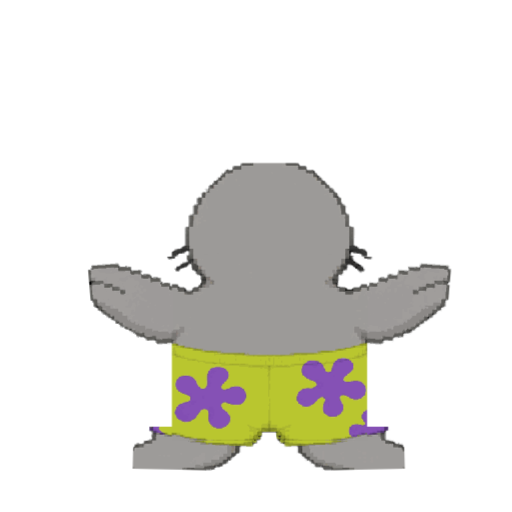
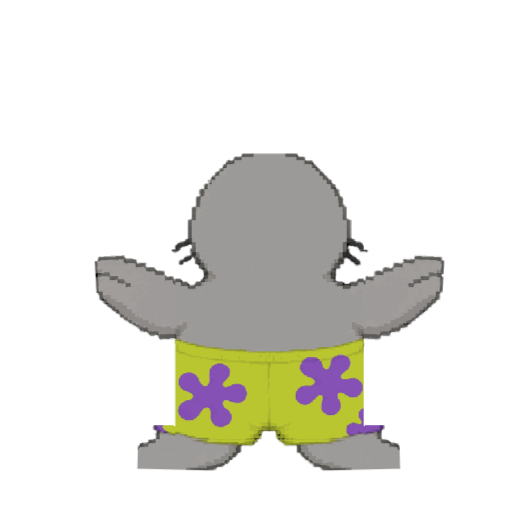
트월킹: 상하 성분이 지워지던 문제 수정 + 리듬을 발주 규격에 맞춤, 원화 발주서 작성
원격 push 는 하지 않았다(요청대로 로컬 커밋만).

측정으로 확인한 결함 두 가지

1. 골반 8자의 **위아래 성분이 100% 상쇄되고 있었다.**
   bake-placeholder-clips.js 는 접지 프레임의 발바닥을 바닥선(y=470)에 맞추려고
   root.y 를 도로 뺀다. 트월킹은 8프레임이 전부 접지라, clip-poses.js 가 준 상하
   움직임이 구울 때 통째로 사라졌다. 좌우 미끄러짐만 남아 있었다.
   → 낮아짐을 sy(몸 압축)로 준다. 변형 기준점이 발밑이라 발을 붙인 채 몸만 눌리고
     바닥선 보정에 지워지지 않는다. 프레임 높이가 306~320px 로 실제로 변하는 것을 확인.

2. **5조각 리그로는 이 동작을 만들 수 없다.**
   torso 조각이 머리와 반바지를 한 덩어리로 가지고 있어서, 골반을 옮기면 머리가 같이
   가고 몸통을 돌리면 머리만 크게 흔들린다. "골반이 먼저, 머리는 조용히" 가 구조적으로
   불가능하다. 새 원화가 유일한 길이다.

한 것
- 8포즈 리듬을 발주 규격대로: [80,80,160,80,80,80,160,80] = 800ms (40ms 격자 유지).
  중앙 준비 / 왼쪽 압축 / 왼쪽 팝 / 반동 / 중앙 낮게 / 오른쪽 압축 / 오른쪽 팝 / 반동.
- 팔을 몸 가까이로 줄였다(T자로 벌리지 않게 계수 0.5 → 0.35).
- docs/art-orders.md 트월킹 절을 다시 썼다: 8프레임 자세표·유지시간, 수치 기준
  (골반 변위 키의 8~10%, 머리는 그 1/4 이하), 생성 프롬프트 전문, 정확한 투입 경로,
  8항목 검수표, 그리고 "새 원화를 넣은 뒤에는 굽기 도구를 이 클립에 쓰지 말 것" 경고.

하지 않은 것 — 분명히 해 둔다
- **새 그림은 한 장도 그리지 않았다.** 이 환경에는 이미지 생성 도구가 없다.
  placeholder:true 를 그대로 두었다. 임시 표시만 지우는 짓은 하지 않았다.
- 첨부된 개념 시트는 쓰지 않았다. 측정 결과 RGB 모드로 **알파 채널이 아예 없고**,
  배경이 242~254 회색 체크무늬가 그림에 칠해져 있으며, 셀 크기가 443.5px 로
  512 격자가 아니다. 포즈·리듬 참고로만 발주서에 반영했다.
- **눈으로 확인한 결과: 아직 궁디댄스로 읽히지 않는다.** 압축은 살아났지만 통짜
  좌우 미끄러짐 인상이 남아 있다. 자동 검사 통과와 귀여움은 다른 문제다.

검증: selftest 977 + overlay-startup 4조건, build-clip-art 규격 통과,
anim timeline 연속성 통과, app-smoke 실제 앱에서 캐릭터 표시 확인.

Claude-Session: https://claude.ai/code/session_01UGKUMqyrf4eS8x4wjHjfSy

diff --git a/src/renderer/shared/clip-art.js b/src/renderer/shared/clip-art.js
@@ -15,7 +15,7 @@
   const RW = (root.RW = root.RW || {});
   const here = (typeof document !== 'undefined' && document.currentScript && document.currentScript.src) || '';
   const BASE = here ? here.replace(/shared\/clip-art\.js.*$/, 'assets/clips/') : 'assets/clips/';
-  const DATA = {"char_seal":{"canvas":{"w":512,"h":512},"anchor":{"x":256,"y":470},"displayScale":0.7059,"clips":{"idle":{"id":"idle","loop":true,"loopFrom":0,"cancelFrom":0,"frames":[{"image":"char_seal/idle/frame-00.png","dur":700,"bbox":[82,152,430,470]},{"image":"char_seal/idle/frame-01.png","dur":500,"bbox":[84,142,428,470]},{"image":"char_seal/idle/frame-02.png","dur":500,"bbox":[86,136,426,470]},{"image":"char_seal/idle/frame-03.png","dur":700,"bbox":[78,161,434,470]}],"placeholder":true},"g_cheer":{"id":"g_cheer","loop":false,"loopFrom":0,"cancelFrom":6,"frames":[{"image":"char_seal/idle/frame-00.png","dur":100,"bbox":[82,152,430,470]},{"image":"char_seal/g_cheer/frame-01.png","dur":220,"bbox":[58,217,454,471]},{"image":"char_seal/g_cheer/frame-02.png","dur":120,"bbox":[102,95,411,451]},{"image":"char_seal/g_cheer/frame-03.png","dur":260,"bbox":[116,51,396,429]},{"image":"char_seal/g_cheer/frame-04.png","dur":120,"bbox":[93,116,420,467]},{"image":"char_seal/g_cheer/frame-05.png","dur":200,"bbox":[63,207,450,470]},{"image":"char_seal/g_cheer/frame-02.png","dur":120,"bbox":[102,95,411,451]},{"image":"char_seal/g_cheer/frame-03.png","dur":260,"bbox":[116,51,396,429]},{"image":"char_seal/g_cheer/frame-04.png","dur":120,"bbox":[93,116,420,467]},{"image":"char_seal/g_cheer/frame-05.png","dur":200,"bbox":[63,207,450,470]},{"image":"char_seal/g_cheer/frame-02.png","dur":120,"bbox":[102,95,411,451]},{"image":"char_seal/g_cheer/frame-03.png","dur":260,"bbox":[116,51,396,429]},{"image":"char_seal/g_cheer/frame-04.png","dur":120,"bbox":[93,116,420,467]},{"image":"char_seal/g_cheer/frame-05.png","dur":200,"bbox":[63,207,450,470]},{"image":"char_seal/idle/frame-00.png","dur":280,"bbox":[82,152,430,470]}],"fx":"sparkle","placeholder":true},"g_droop":{"id":"g_droop","loop":false,"loopFrom":0,"cancelFrom":4,"frames":[{"image":"char_seal/idle/frame-00.png","dur":160,"bbox":[82,152,430,470]},{"image":"char_seal/g_droop/frame-01.png","dur":240,"bbox":[82,134,420,471]},{"image":"char_seal/g_droop/frame-02.png","dur":300,"bbox":[83,201,466,471]},{"image":"char_seal/g_droop/frame-03.png","dur":260,"bbox":[70,204,455,470]},{"image":"char_seal/g_droop/frame-04.png","dur":160,"bbox":[80,198,463,470]},{"image":"char_seal/g_droop/frame-05.png","dur":160,"bbox":[91,189,469,470]},{"image":"char_seal/g_droop/frame-06.png","dur":160,"bbox":[100,188,477,471]},{"image":"char_seal/g_droop/frame-07.png","dur":260,"bbox":[111,184,483,470]},{"image":"char_seal/g_droop/frame-08.png","dur":220,"bbox":[94,173,462,471]},{"image":"char_seal/g_droop/frame-09.png","dur":260,"bbox":[84,164,444,470]},{"image":"char_seal/idle/frame-00.png","dur":300,"bbox":[82,152,430,470]}],"fx":"droop","placeholder":true},"g_heart":{"id":"g_heart","loop":false,"loopFrom":0,"cancelFrom":4,"frames":[{"image":"char_seal/idle/frame-00.png","dur":120,"bbox":[82,152,430,470]},{"image":"char_seal/g_heart/frame-01.png","dur":200,"bbox":[70,185,442,471]},{"image":"char_seal/g_heart/frame-02.png","dur":200,"bbox":[92,125,421,459]},{"image":"char_seal/g_heart/frame-03.png","dur":280,"bbox":[78,110,396,465]},{"image":"char_seal/g_heart/frame-04.png","dur":120,"bbox":[86,140,427,465]},{"image":"char_seal/g_heart/frame-05.png","dur":220,"bbox":[79,170,448,470]},{"image":"char_seal/idle/frame-00.png","dur":320,"bbox":[82,152,430,470]}],"fx":"heart","placeholder":true},"turn_back":{"id":"turn_back","loop":false,"loopFrom":0,"cancelFrom":99,"frames":[{"image":"char_seal/idle/frame-00.png","dur":100,"bbox":[82,152,430,470]},{"image":"char_seal/turn_back/frame-01.png","dur":100,"bbox":[183,145,329,470]},{"image":"char_seal/turn_back/frame-02.png","dur":100,"bbox":[82,152,430,470]}],"placeholder":true},"turn_front":{"id":"turn_front","loop":false,"loopFrom":0,"cancelFrom":99,"frames":[{"image":"char_seal/turn_back/frame-02.png","dur":100,"bbox":[82,152,430,470]},{"image":"char_seal/turn_front/frame-01.png","dur":100,"bbox":[183,145,329,470]},{"image":"char_seal/idle/frame-00.png","dur":100,"bbox":[82,152,430,470]}],"placeholder":true},"twerk_loop":{"id":"twerk_loop","loop":true,"loopFrom":0,"cancelFrom":0,"frames":[{"image":"char_seal/twerk_loop/frame-00.png","dur":120,"bbox":[68,154,418,471],"ground":["L","R"]},{"image":"char_seal/twerk_loop/frame-01.png","dur":120,"bbox":[62,151,419,470],"ground":["L","R"]},{"image":"char_seal/twerk_loop/frame-02.png","dur":120,"bbox":[63,159,425,470],"ground":["L","R"]},{"image":"char_seal/twerk_loop/frame-03.png","dur":120,"bbox":[81,152,436,471],"ground":["L","R"]},{"image":"char_seal/twerk_loop/frame-04.png","dur":120,"bbox":[95,154,444,471],"ground":["L","R"]},{"image":"char_seal/twerk_loop/frame-05.png","dur":120,"bbox":[93,153,452,470],"ground":["L","R"]},{"image":"char_seal/twerk_loop/frame-06.png","dur":120,"bbox":[87,162,451,470],"ground":["L","R"]},{"image":"char_seal/twerk_loop/frame-07.png","dur":120,"bbox":[75,152,432,470],"ground":["L","R"]}],"placeholder":true},"walk":{"id":"walk","loop":true,"loopFrom":0,"cancelFrom":0,"frames":[{"image":"char_seal/walk/frame-00.png","dur":160,"bbox":[77,143,435,470],"ground":["L"]},{"image":"char_seal/walk/frame-01.png","dur":160,"bbox":[81,125,421,471],"ground":["L","R"]},{"image":"char_seal/walk/frame-02.png","dur":160,"bbox":[80,156,432,471],"ground":["L"]},{"image":"char_seal/walk/frame-03.png","dur":160,"bbox":[81,154,432,471],"ground":["L"]},{"image":"char_seal/walk/frame-04.png","dur":160,"bbox":[77,160,435,471],"ground":["R"]},{"image":"char_seal/walk/frame-05.png","dur":160,"bbox":[91,138,432,469],"ground":["L","R"]},{"image":"char_seal/walk/frame-06.png","dur":160,"bbox":[80,150,433,470],"ground":["R"]},{"image":"char_seal/walk/frame-07.png","dur":160,"bbox":[81,141,432,471],"ground":["R"]}],"stepAdvance":26,"placeholder":true}}}};
+  const DATA = {"char_seal":{"canvas":{"w":512,"h":512},"anchor":{"x":256,"y":470},"displayScale":0.7059,"clips":{"idle":{"id":"idle","loop":true,"loopFrom":0,"cancelFrom":0,"frames":[{"image":"char_seal/idle/frame-00.png","dur":700,"bbox":[82,152,430,470]},{"image":"char_seal/idle/frame-01.png","dur":500,"bbox":[84,142,428,470]},{"image":"char_seal/idle/frame-02.png","dur":500,"bbox":[86,136,426,470]},{"image":"char_seal/idle/frame-03.png","dur":700,"bbox":[78,161,434,470]}],"placeholder":true},"g_cheer":{"id":"g_cheer","loop":false,"loopFrom":0,"cancelFrom":6,"frames":[{"image":"char_seal/idle/frame-00.png","dur":100,"bbox":[82,152,430,470]},{"image":"char_seal/g_cheer/frame-01.png","dur":220,"bbox":[58,217,454,471]},{"image":"char_seal/g_cheer/frame-02.png","dur":120,"bbox":[102,95,411,451]},{"image":"char_seal/g_cheer/frame-03.png","dur":260,"bbox":[116,51,396,429]},{"image":"char_seal/g_cheer/frame-04.png","dur":120,"bbox":[93,116,420,467]},{"image":"char_seal/g_cheer/frame-05.png","dur":200,"bbox":[63,207,450,470]},{"image":"char_seal/g_cheer/frame-02.png","dur":120,"bbox":[102,95,411,451]},{"image":"char_seal/g_cheer/frame-03.png","dur":260,"bbox":[116,51,396,429]},{"image":"char_seal/g_cheer/frame-04.png","dur":120,"bbox":[93,116,420,467]},{"image":"char_seal/g_cheer/frame-05.png","dur":200,"bbox":[63,207,450,470]},{"image":"char_seal/g_cheer/frame-02.png","dur":120,"bbox":[102,95,411,451]},{"image":"char_seal/g_cheer/frame-03.png","dur":260,"bbox":[116,51,396,429]},{"image":"char_seal/g_cheer/frame-04.png","dur":120,"bbox":[93,116,420,467]},{"image":"char_seal/g_cheer/frame-05.png","dur":200,"bbox":[63,207,450,470]},{"image":"char_seal/idle/frame-00.png","dur":280,"bbox":[82,152,430,470]}],"fx":"sparkle","placeholder":true},"g_droop":{"id":"g_droop","loop":false,"loopFrom":0,"cancelFrom":4,"frames":[{"image":"char_seal/idle/frame-00.png","dur":160,"bbox":[82,152,430,470]},{"image":"char_seal/g_droop/frame-01.png","dur":240,"bbox":[82,134,420,471]},{"image":"char_seal/g_droop/frame-02.png","dur":300,"bbox":[83,201,466,471]},{"image":"char_seal/g_droop/frame-03.png","dur":260,"bbox":[70,204,455,470]},{"image":"char_seal/g_droop/frame-04.png","dur":160,"bbox":[80,198,463,470]},{"image":"char_seal/g_droop/frame-05.png","dur":160,"bbox":[91,189,469,470]},{"image":"char_seal/g_droop/frame-06.png","dur":160,"bbox":[100,188,477,471]},{"image":"char_seal/g_droop/frame-07.png","dur":260,"bbox":[111,184,483,470]},{"image":"char_seal/g_droop/frame-08.png","dur":220,"bbox":[94,173,462,471]},{"image":"char_seal/g_droop/frame-09.png","dur":260,"bbox":[84,164,444,470]},{"image":"char_seal/idle/frame-00.png","dur":300,"bbox":[82,152,430,470]}],"fx":"droop","placeholder":true},"g_heart":{"id":"g_heart","loop":false,"loopFrom":0,"cancelFrom":4,"frames":[{"image":"char_seal/idle/frame-00.png","dur":120,"bbox":[82,152,430,470]},{"image":"char_seal/g_heart/frame-01.png","dur":200,"bbox":[70,185,442,471]},{"image":"char_seal/g_heart/frame-02.png","dur":200,"bbox":[92,125,421,459]},{"image":"char_seal/g_heart/frame-03.png","dur":280,"bbox":[78,110,396,465]},{"image":"char_seal/g_heart/frame-04.png","dur":120,"bbox":[86,140,427,465]},{"image":"char_seal/g_heart/frame-05.png","dur":220,"bbox":[79,170,448,470]},{"image":"char_seal/idle/frame-00.png","dur":320,"bbox":[82,152,430,470]}],"fx":"heart","placeholder":true},"turn_back":{"id":"turn_back","loop":false,"loopFrom":0,"cancelFrom":99,"frames":[{"image":"char_seal/idle/frame-00.png","dur":100,"bbox":[82,152,430,470]},{"image":"char_seal/turn_back/frame-01.png","dur":100,"bbox":[183,145,329,470]},{"image":"char_seal/turn_back/frame-02.png","dur":100,"bbox":[82,152,430,470]}],"placeholder":true},"turn_front":{"id":"turn_front","loop":false,"loopFrom":0,"cancelFrom":99,"frames":[{"image":"char_seal/turn_back/frame-02.png","dur":100,"bbox":[82,152,430,470]},{"image":"char_seal/turn_front/frame-01.png","dur":100,"bbox":[183,145,329,470]},{"image":"char_seal/idle/frame-00.png","dur":100,"bbox":[82,152,430,470]}],"placeholder":true},"twerk_loop":{"id":"twerk_loop","loop":true,"loopFrom":0,"cancelFrom":0,"frames":[{"image":"char_seal/twerk_loop/frame-00.png","dur":80,"bbox":[64,152,421,470],"ground":["L","R"]},{"image":"char_seal/twerk_loop/frame-01.png","dur":80,"bbox":[59,160,427,470],"ground":["L","R"]},{"image":"char_seal/twerk_loop/frame-02.png","dur":160,"bbox":[69,149,418,470],"ground":["L","R"]},{"image":"char_seal/twerk_loop/frame-03.png","dur":80,"bbox":[72,163,445,471],"ground":["L","R"]},{"image":"char_seal/twerk_loop/frame-04.png","dur":80,"bbox":[91,152,449,470],"ground":["L","R"]},{"image":"char_seal/twerk_loop/frame-05.png","dur":80,"bbox":[85,161,455,470],"ground":["L","R"]},{"image":"char_seal/twerk_loop/frame-06.png","dur":160,"bbox":[94,153,444,471],"ground":["L","R"]},{"image":"char_seal/twerk_loop/frame-07.png","dur":80,"bbox":[66,164,441,470],"ground":["L","R"]}],"placeholder":true},"walk":{"id":"walk","loop":true,"loopFrom":0,"cancelFrom":0,"frames":[{"image":"char_seal/walk/frame-00.png","dur":160,"bbox":[77,143,435,470],"ground":["L"]},{"image":"char_seal/walk/frame-01.png","dur":160,"bbox":[81,125,421,471],"ground":["L","R"]},{"image":"char_seal/walk/frame-02.png","dur":160,"bbox":[80,156,432,471],"ground":["L"]},{"image":"char_seal/walk/frame-03.png","dur":160,"bbox":[81,154,432,471],"ground":["L"]},{"image":"char_seal/walk/frame-04.png","dur":160,"bbox":[77,160,435,471],"ground":["R"]},{"image":"char_seal/walk/frame-05.png","dur":160,"bbox":[91,138,432,469],"ground":["L","R"]},{"image":"char_seal/walk/frame-06.png","dur":160,"bbox":[80,150,433,470],"ground":["R"]},{"image":"char_seal/walk/frame-07.png","dur":160,"bbox":[81,141,432,471],"ground":["R"]}],"stepAdvance":26,"placeholder":true}}}};
   // 상대 경로 → 절대 경로
   for (const ch of Object.keys(DATA)) {
     const clips = DATA[ch].clips;

diff --git a/tools/clip-poses.js b/tools/clip-poses.js
@@ -123,27 +123,52 @@ const CLIPS = {
   // 5조각 리그에서는 다리가 몸통의 자식이라, 몸통이 돌면 다리도 같이 돈다.
   // 발을 붙여 두려고 다리에 **반대 회전**을 걸어 상쇄한다.
   twerk_loop: (function () {
-    // 골반 8자: x 는 좌우, y 는 위아래(위가 음수). 상체는 2프레임 지연.
-    const hip = [
-      [0, -3], [-6, 2], [-9, 5], [-5, -2],
-      [0, -3], [6, 2], [9, 5], [5, -2]
+    // 궁디댄스 8포즈: 중앙 준비 / 왼쪽 압축 / 왼쪽 팝 / 반동 / 중앙 낮게 / 오른쪽 압축 /
+    //                오른쪽 팝 / 복귀 반동.  (docs/animation-bible.md 6.1)
+    //
+    // ⚠ 위아래를 root.y 로 주면 **아무 일도 일어나지 않는다.**
+    //   bake-placeholder-clips.js 가 접지 프레임의 발바닥을 바닥선(y=470)에 맞추려고
+    //   root.y 를 도로 빼기 때문이다. 트월킹은 8프레임 전부 접지라 상하 성분이 100% 상쇄됐다.
+    //   그래서 낮아짐/올라옴은 **몸 압축(sy)** 으로 준다. 변형 기준점이 발밑이라
+    //   sy 는 발을 붙인 채 몸만 눌리고, 바닥선 보정에 지워지지 않는다.
+    //
+    // ⚠ 이 리그로는 "골반만 움직이고 머리는 가만히" 를 만들 수 없다.
+    //   5조각 리그의 torso 는 머리와 반바지를 **한 덩어리**로 가지고 있어서,
+    //   골반을 옮기면 머리가 같이 가고 몸통을 돌리면 머리만 크게 흔들린다.
+    //   진짜 궁디댄스는 새로 그린 원화가 있어야 한다(docs/art-orders.md 트월킹 절).
+    //   아래는 그때까지 쓰는 임시 배치이며, 리듬과 접지만 맞춰 둔 것이다.
+    const KEY = [
+      // x: 좌우(논리px)  squash: 몸 압축(1이 기본, 작을수록 낮게)  dur: 유지(40ms 격자)
+      { x:  0, squash: 0.985, dur:  80 },   // 1 중앙 준비
+      { x: -5, squash: 0.965, dur:  80 },   // 2 왼쪽으로 가며 압축
+      { x: -9, squash: 1.000, dur: 160 },   // 3 왼쪽 팝 정점 — 여기서 눈이 멎는다
+      { x: -4, squash: 0.955, dur:  80 },   // 4 탄성 반동(중앙보다 왼쪽, 낮게)
+      { x:  0, squash: 0.985, dur:  80 },   // 5 중앙 낮은 통과 자세
+      { x:  5, squash: 0.965, dur:  80 },   // 6 오른쪽으로 가며 압축
+      { x:  9, squash: 1.000, dur: 160 },   // 7 오른쪽 팝 정점
+      { x:  4, squash: 0.955, dur:  80 }    // 8 반동 → 1번으로 이어진다
     ];
-    const lag = 2;
-    const frames = hip.map((h, i) => {
-      const prev = hip[(i - lag + hip.length) % hip.length];
-      const torsoRot = -prev[0] * 0.55;          // 상체가 늦게 따라오며 반대로 기운다
+    const lag = 2;                            // 상체는 골반보다 늦게 따라온다
+    const frames = KEY.map((k, i) => {
+      const prev = KEY[(i - lag + KEY.length) % KEY.length];
+      const torsoRot = -prev.x * 0.55;
       return {
-        dur: 120,
+        dur: k.dur,
         ground: ['L', 'R'],
         pose: {
-          root: { back: true, x: h[0], y: h[1], sx: 1 + Math.abs(h[0]) * 0.004, sy: 1 - Math.abs(h[1]) * 0.006 },
+          root: {
+            back: true, x: k.x,
+            sx: 1 + (1 - k.squash) * 1.6,     // 눌리면 옆으로 퍼진다(부피 보존처럼 보이게)
+            sy: k.squash
+          },
           bones: {
             torso: { rot: torsoRot },
             // 다리는 몸통 회전을 상쇄해 발을 바닥에 붙여 둔다
-            legL_upper: { rot: -torsoRot + h[0] * 0.15 },
-            legR_upper: { rot: -torsoRot - h[0] * 0.15 },
-            armL_upper: { rot: -h[0] * 0.5 },
-            armR_upper: { rot: h[0] * 0.5 }
+            legL_upper: { rot: -torsoRot + k.x * 0.15 },
+            legR_upper: { rot: -torsoRot - k.x * 0.15 },
+            // 팔은 몸 가까이 — T자로 벌리지 않는다
+            armL_upper: { rot: -k.x * 0.35 },
+            armR_upper: { rot: k.x * 0.35 }
           }
         }
       };

diff --git a/docs/art-orders.md b/docs/art-orders.md
@@ -128,9 +128,113 @@
 > 그릴 방법이 없어서 정면 그림을 가로로 얇게 눌러 넣었다. 회전하는 부피가 아니라
 > 납작해지는 종이로 읽힌다. 이번 발주에서 **우선순위가 가장 높은 그림**이다.
 
-### `twerk_loop` — 8장, 루프, 뒷모습
-| 파일 | 골반 | 상체(1프레임 지연) | 유지 |
-|---|---|---|---|
+### `twerk_loop` — 8장, 루프, 뒷모습 · **이 클립이 제품의 대표 동작이다**
+
+> **왜 지금 것으로는 안 되는가 (측정 결과)**
+>
+> 1. **위아래 성분이 통째로 지워지고 있었다.** `tools/bake-placeholder-clips.js` 는 접지
+>    프레임의 발바닥을 바닥선(y=470)에 맞추려고 `root.y` 를 도로 뺀다. 트월킹은 8프레임이
+>    전부 접지라 골반 8자의 상하 성분이 **100% 상쇄**됐다. → 낮아짐은 `sy`(몸 압축)로
+>    주도록 고쳤다. 이제 프레임 높이가 306~320px 로 실제로 변한다.
+> 2. **5조각 리그로는 "골반만 움직이고 머리는 가만히" 를 만들 수 없다.** `torso` 조각이
+>    머리와 반바지를 **한 덩어리**로 가지고 있다. 골반을 옮기면 머리가 같이 가고,
+>    몸통을 돌리면 반대로 머리만 크게 흔들린다. 즉 이 동작은 **새 원화 없이는 불가능**하다.
+>    지금 들어 있는 8장은 리듬과 접지만 맞춘 임시 배치이며, 눈으로 보면 여전히
+>    **통짜 좌우 미끄러짐**으로 읽힌다.
+
+**연출**: 힐끗 → 궁디 뽁뽁. 골반과 반바지 실루엣이 주연이고 머리·어깨는 조용하다.
+**분위기**: 신난 강아지가 엉덩이를 실룩이는 장난스러운 승리 춤. 반바지는 항상 착용,
+노출·신체 강조 없이 둥글고 말랑한 실루엣으로만 귀여움을 만든다.
+
+| 파일 | 자세 | 유지 |
+|---|---|---|
+| `frame-00` | **중앙 준비.** 낮게 앉은 자세, 두 발 벌려 딛고, 지느러미는 가슴 앞에 모음 | 80ms |
+| `frame-01` | 골반이 왼쪽으로 가며 **압축**. 발 위치 그대로, 반바지 주름이 왼쪽으로 눌림 | 80ms |
+| `frame-02` | **왼쪽 팝 정점.** 둥근 반바지가 왼쪽+살짝 위로 확 밀림, 몸통은 오른쪽으로 반대 곡선 | 160ms |
+| `frame-03` | 탄성 반동. 중앙보다 왼쪽·낮게. **머리는 한 박자 늦게** 따라온다 | 80ms |
+| `frame-04` | 중앙 낮은 통과 자세(00과 같은 크기·스탠스), 흐름은 오른쪽으로 | 80ms |
+| `frame-05` | 골반이 오른쪽으로 가며 압축. 발 위치 동일 | 80ms |
+| `frame-06` | **오른쪽 팝 정점.** 반바지가 오른쪽+살짝 위로, 몸통은 왼쪽으로 반대 곡선 | 160ms |
+| `frame-07` | 반동 → 00 으로 이어진다 | 80ms |
+
+총 **800ms**. 준비·정점을 느끼게 하고 전환은 빠르게. (Bible 의 40ms 격자 유지)
+
+**수치 기준**
+- 골반 좌우 변위: 캐릭터 전체 키의 **8~10%** (340px 기준 ±27~34px)
+- 머리 좌우 변위: 골반 변위의 **1/4 이하**
+- 두 발은 8장 내내 **같은 x·y**. 발바닥 y=470(±1px)
+- 낮아짐은 하체 접힘과 몸통 변형으로. 캐릭터 전체를 아래로 내리지 않는다
+- 팔은 T자로 벌리지 않고 몸 가까이 (지금 임시본의 벌린 팔은 **틀린 참고**다)
+
+**시선**: 뒷모습 + 살짝 3/4. 오른쪽 어깨 너머로 고개를 조금 돌려 감고 웃는 눈 한쪽과
+볼이 보인다. 이 "힐끗" 이 귀여움의 핵심이다.
+
+**생성 프롬프트** (원본 `art/presets/seal-front.png`·`seal-back.png` 를 정체성 참조로 첨부)
+
+```
+Create a NEW 8-frame sprite animation contact sheet, using the two attached images only as
+the canonical identity references for the SAME cheerful gray seal mascot. Preserve gray fur,
+round head, pale muzzle, tiny whiskers, flipper hands and feet, lime-yellow swim shorts with
+the SAME purple flower patches. Do not invent a different mascot.
+
+Output one genuinely transparent RGBA PNG sheet, exactly 4 columns x 2 rows, 8 equal cells,
+2048x1024 canvas (512x512 per cell). No grid lines, labels, numbers, scenery, ground shadows,
+motion lines or particles. Each cell holds the ENTIRE intact seal with transparent margins,
+consistent drawing scale, identical foot baseline at 92% of cell height. Unchanging camera.
+Preserve the original pixel-art look, crisp contours, not smooth 3D.
+
+Action: an irresistibly adorable, wholesome mascot butt-wiggle dance, like an excited puppy
+wiggling its rear. NOT erotic. Swim shorts fully on and unchanged, no nudity or anatomical
+emphasis. Whole body seen from behind at a slight three-quarter angle; head turned a little
+toward the viewer over its right shoulder so one happy closed eye and cheek show. Stance low
+and springy, stubby feet planted apart, fins tucked close to the chest. The rounded
+SHORTS/HIP silhouette leads the dance; do NOT sway the whole rigid body as one piece. Head and
+shoulders stay nearly in place while hips shift sideways much more; torso bends organically
+and shoulders counterbalance. No separated parts or cutout seams.
+
+Eight consecutive full-body poses forming ONE seamless cycle:
+1 centered low preparation, hips centered, shoulders steady.
+2 hips travel left with compression, feet anchored.
+3 maximum LEFT hip pop, shorts pushed distinctly left and slightly up, torso counter-curves right.
+4 elastic rebound left-of-center and down, head follows one beat late.
+5 centered low passing pose matching frame 1 scale and stance, flowing right.
+6 hips travel right with compression, same foot anchors.
+7 maximum RIGHT hip pop, shorts pushed right and slightly up, torso counter-curves left.
+8 elastic rebound right-of-center and down, flowing back into frame 1.
+
+Hip displacement about 8-10% of full character height to each side. Head horizontal
+displacement no more than a quarter of hip displacement. Feet stay in identical positions.
+The eight pictures must be distinct purpose-drawn poses, not rotations or scales of one bitmap.
+Keep flower shapes, proportions and pixel texture consistent between frames.
+```
+
+**넣는 경로** — 시트를 8장으로 잘라 아래 이름 그대로:
+
+```
+art/clips/char_seal/twerk_loop/frame-00.png  …  frame-07.png
+```
+
+그다음 `art/clips/char_seal/twerk_loop/clip.json` 에서 **`"placeholder": true` 줄만 지운다.**
+(유지 시간은 위 표대로 이미 들어가 있다.) 마지막으로 `python3 tools/build-clip-art.py`.
+
+> ⚠ **주의 두 가지**
+> - `node tools/bake-placeholder-clips.js` 를 다시 돌리면 **새 원화를 임시본으로 덮어쓴다.**
+>   진짜 그림을 넣은 뒤에는 그 도구를 이 클립에 쓰지 않는다.
+> - 개념 시트(`seal-wiggle-concept.png`)는 **그대로 못 쓴다.** 측정해 보니 RGB 모드로
+>   알파 채널이 아예 없고, 배경이 242~254 회색 **체크무늬가 그림에 칠해져** 있으며,
+>   셀 크기가 443.5px 로 512 격자가 아니다. 포즈·리듬 참고로만 쓴다.
+
+**검수 항목** (이 중 하나라도 걸리면 재작업)
+1. 8장을 이어 붙였을 때 발이 미끄러지지 않는가 (발 x·y 동일)
+2. 프레임마다 얼굴·꽃무늬가 깜빡이거나 미끄러지지 않는가
+3. 머리 변위가 골반 변위의 1/4 이하인가
+4. 배경 alpha=0 이고 캐릭터 내부는 불투명한가 (체크무늬 잔여물 없음)
+5. 07 → 00 이 튀지 않고 이어지는가
+6. `turn_back` 마지막 자세 → `twerk_loop/frame-00` 이 이어지는가
+7. `twerk_loop/frame-07` → `turn_front` 첫 자세가 이어지는가
+8. **이펙트·소리를 꺼도 0.5초 안에 궁디댄스로 읽히는가** (자동 검사로는 판정 못 한다)
+
+---|---|---|---|
 | `frame-00` | 중앙, 약간 위 | 중앙 | 120ms |
 | `frame-01` | 왼쪽 아래 | 아직 중앙 | 120ms |
 | `frame-02` | 왼쪽 최대, 아래 | 왼쪽으로 따라옴 | 120ms |
